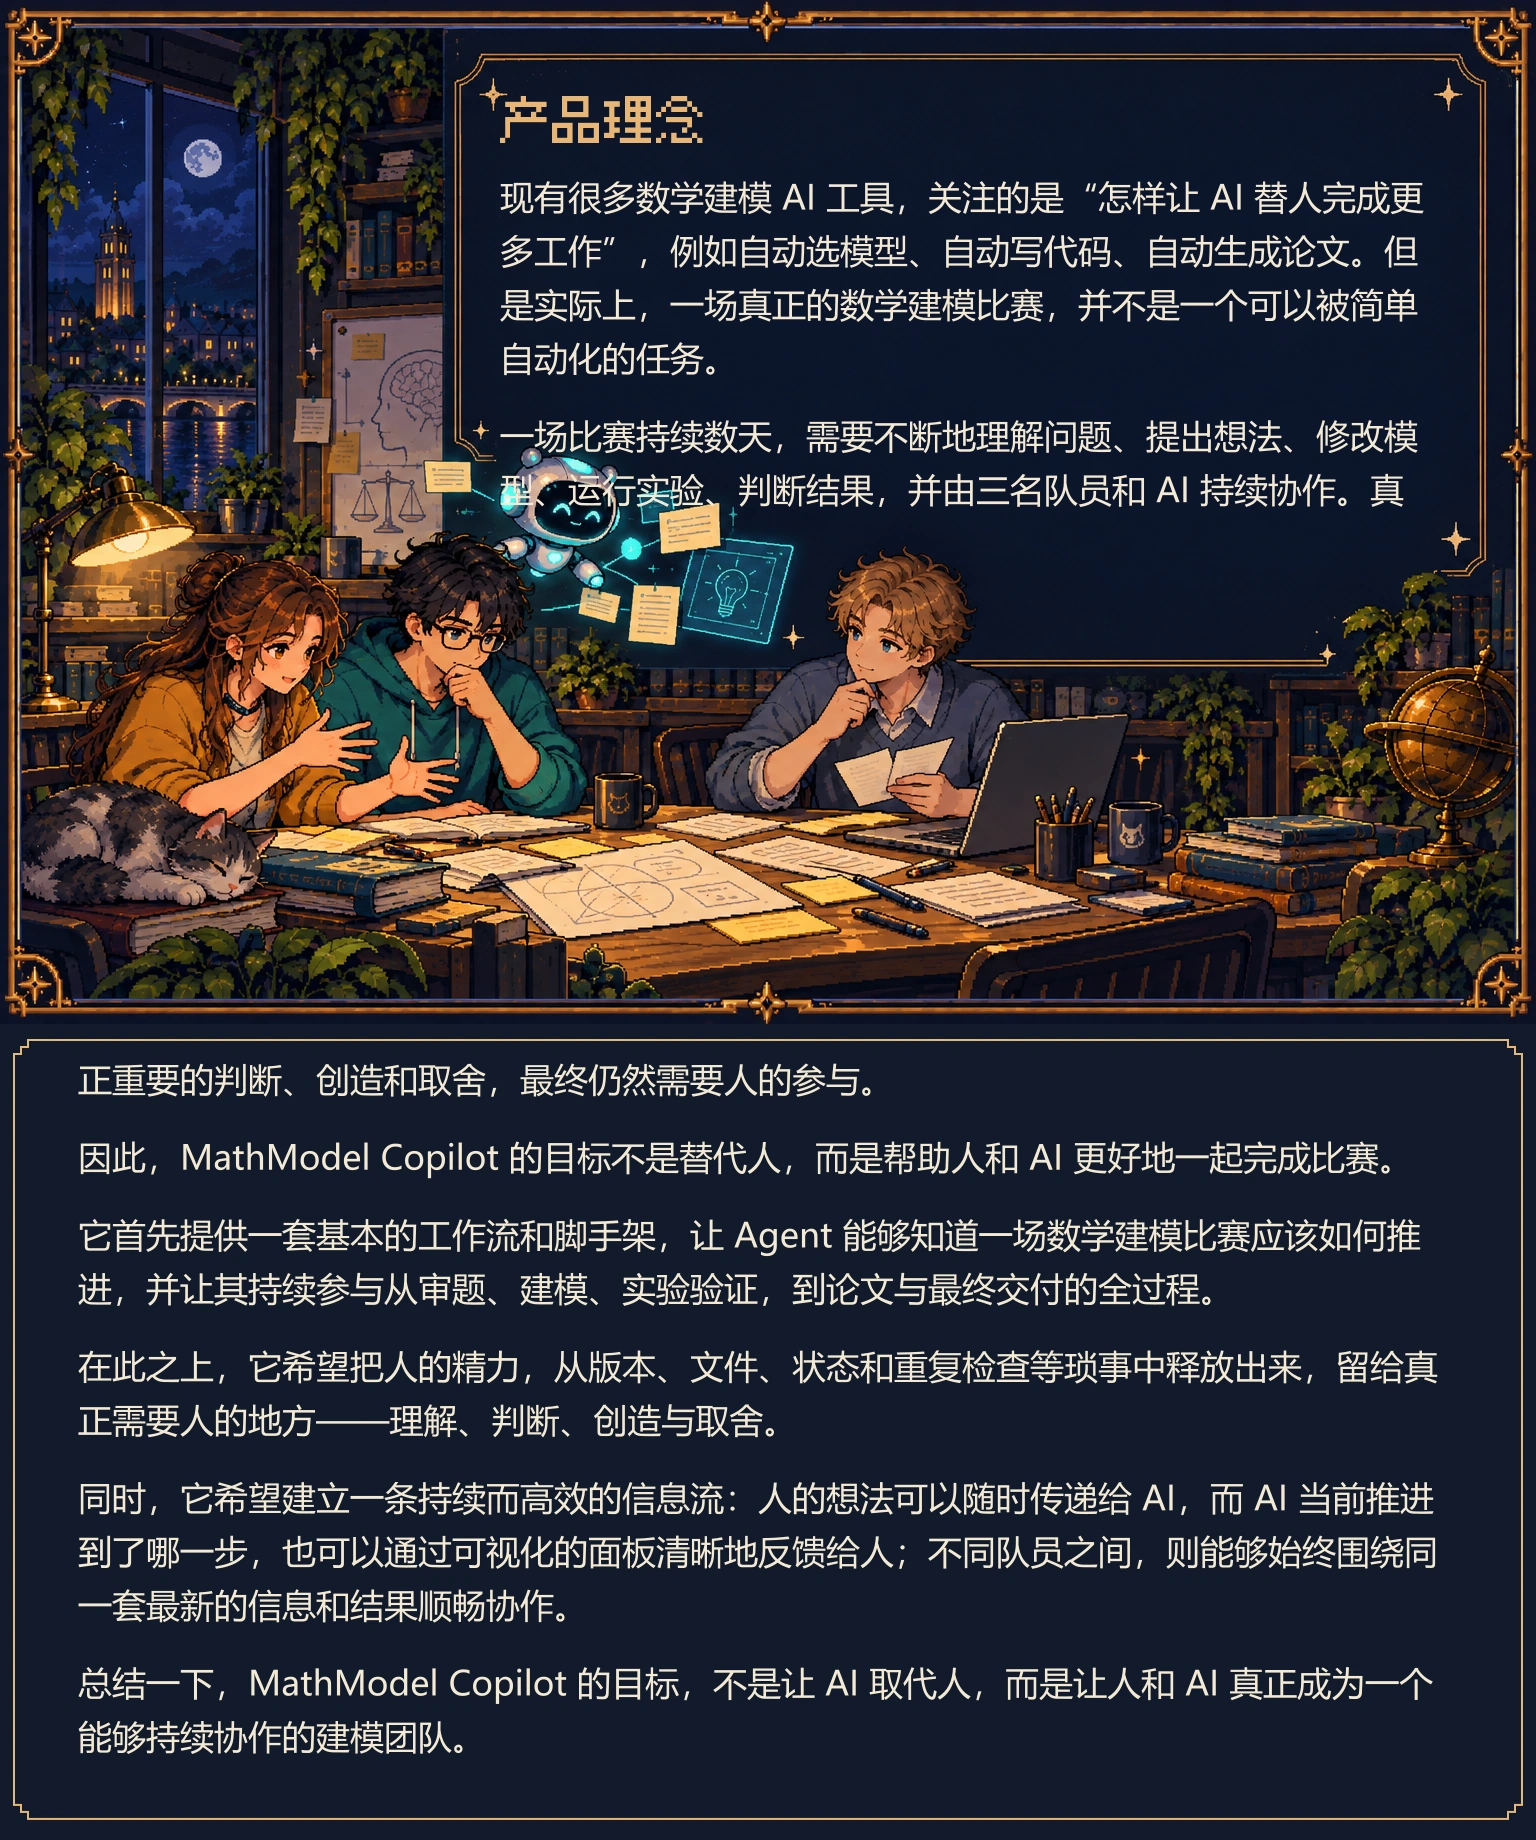
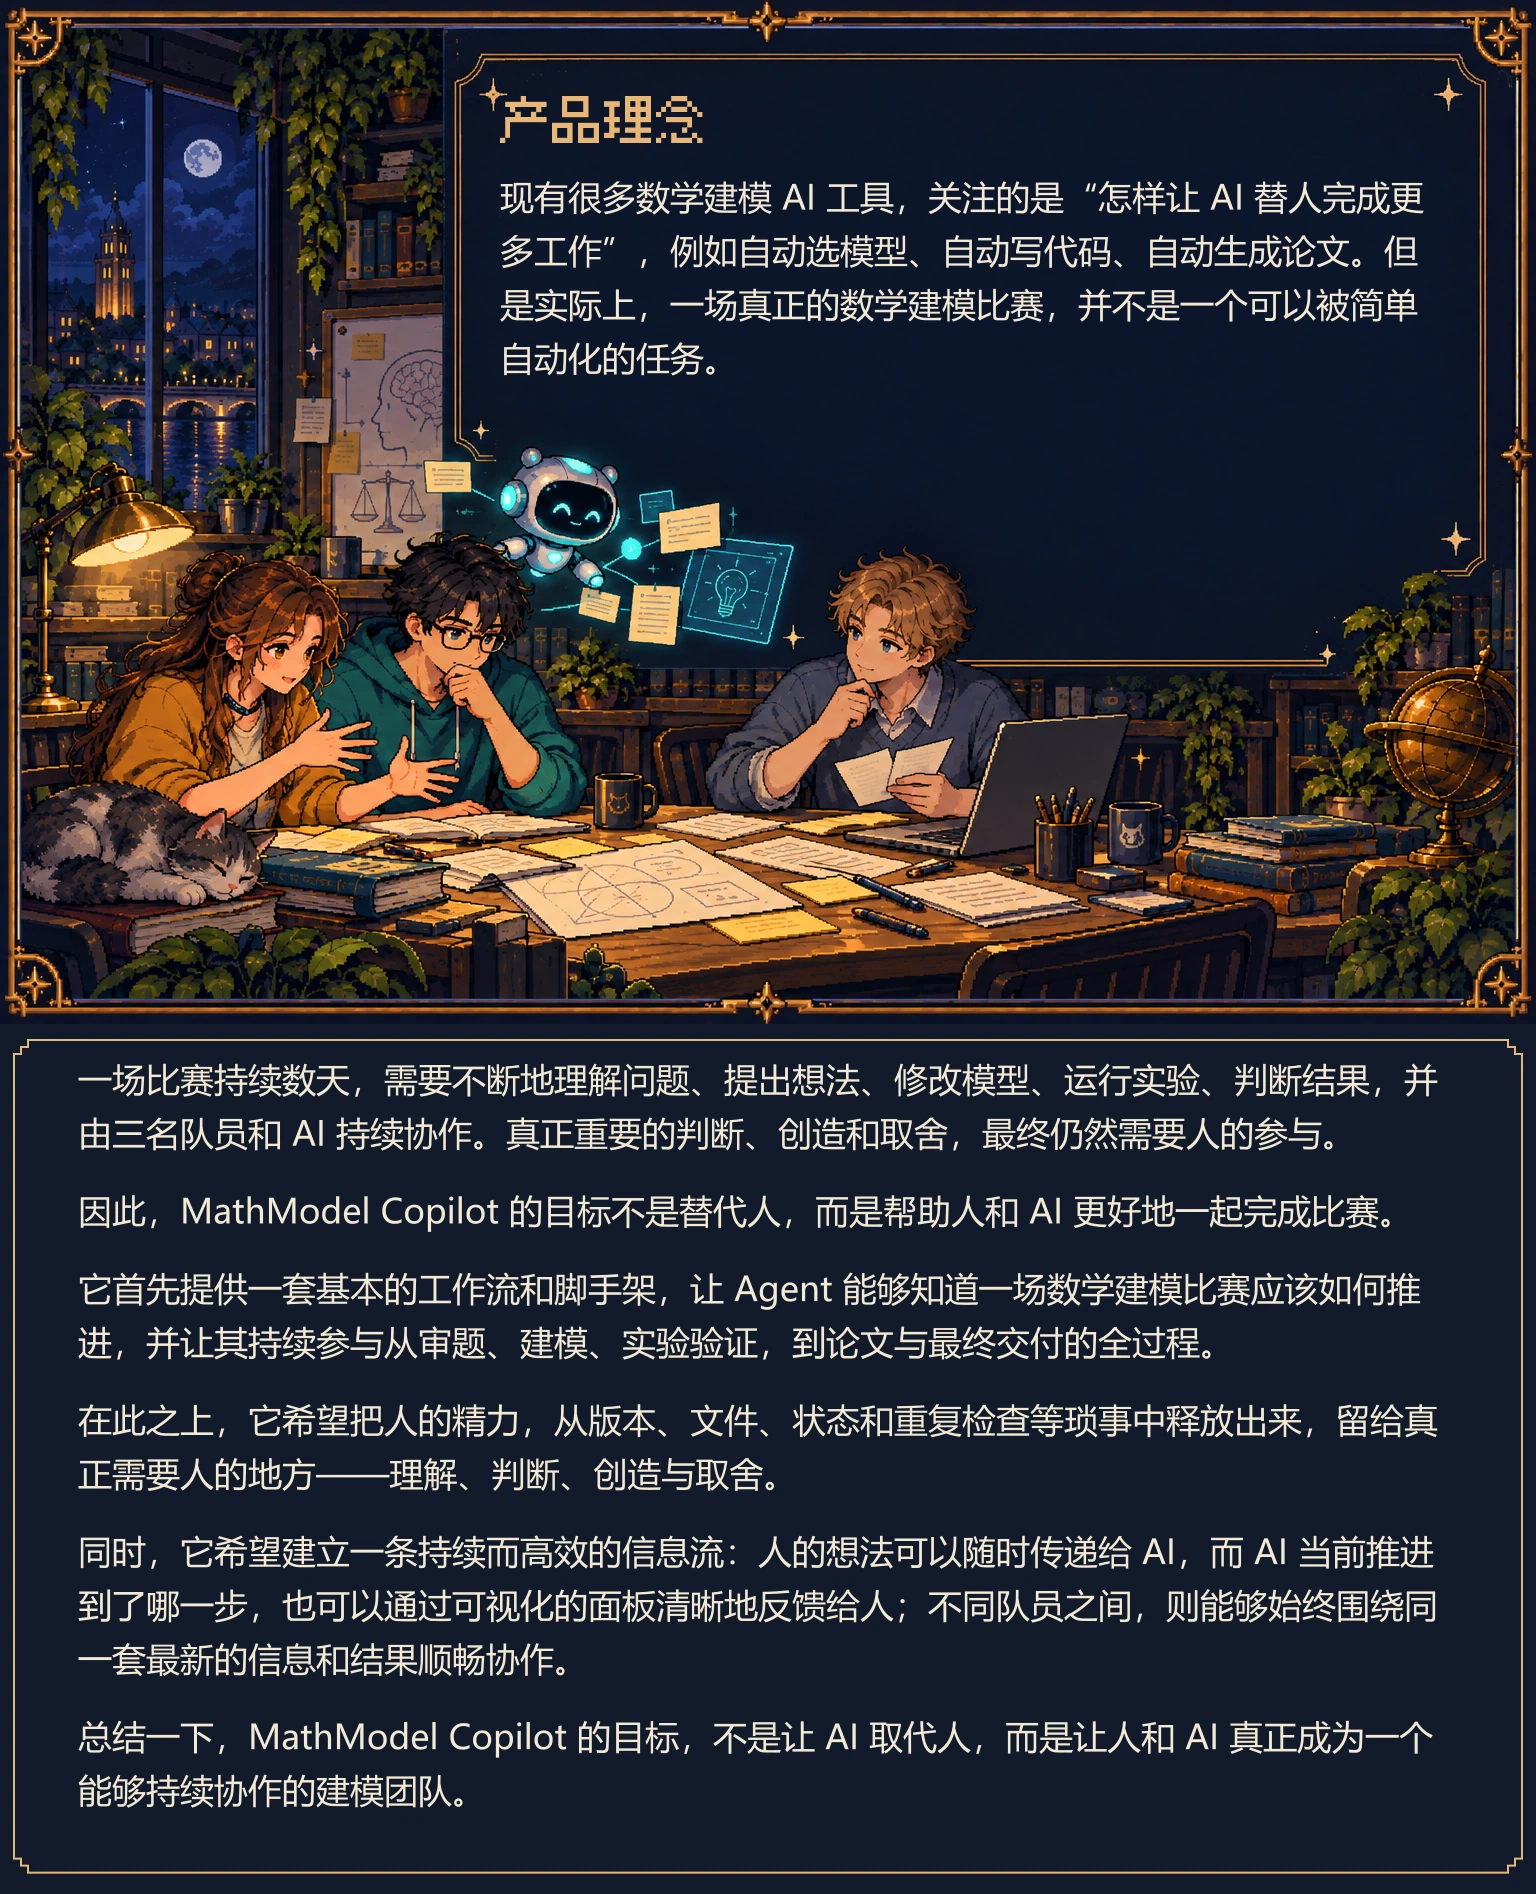
Design README with pixel study illustrations while preserving original copy

diff --git a/README.md b/README.md
@@ -1,64 +1,64 @@
 <p align="center"><a href="https://github.com/Odyphus/MathModel-Copilot/raw/refs/heads/main/downloads/MathModel-Copilot-latest.zip"><img src="assets/pixel-readme/download.webp" alt="直接下载压缩包" width="240"></a></p>
 
-[产品理念](#产品理念) · [功能介绍](#mathmodel-copilot-能帮你做什么) · [反馈与参与](#反馈与参与)
+[产品理念](#user-content-产品理念) · [功能介绍](#user-content-mathmodel-copilot-能帮你做什么) · [反馈与参与](#user-content-反馈与参与)
 
-<a id="mathmodel-copilot" name="mathmodel-copilot"></a>
+<a name="mathmodel-copilot"></a>
 
 <picture>
   <source media="(max-width: 640px)" srcset="assets/pixel-readme/00-mobile.webp">
   <img src="assets/pixel-readme/00-desktop.webp" alt="MathModel Copilot" width="100%">
 </picture>
 
-<a id="下载后发给-ai-安装就能开始" name="下载后发给-ai-安装就能开始"></a>
+<a name="下载后发给-ai-安装就能开始"></a>
 
 <picture>
   <source media="(max-width: 640px)" srcset="assets/pixel-readme/01-mobile.webp">
   <img src="assets/pixel-readme/01-desktop.webp" alt="下载后，发给 AI 安装就能开始" width="100%">
 </picture>
 
-<a id="产品理念" name="产品理念"></a>
+<a name="产品理念"></a>
 
 <picture>
   <source media="(max-width: 640px)" srcset="assets/pixel-readme/02-mobile.webp">
   <img src="assets/pixel-readme/02-desktop.webp" alt="产品理念" width="100%">
 </picture>
 
-<a id="mathmodel-copilot-能帮你做什么" name="mathmodel-copilot-能帮你做什么"></a>
+<a name="mathmodel-copilot-能帮你做什么"></a>
 
 <picture>
   <source media="(max-width: 640px)" srcset="assets/pixel-readme/03-mobile.webp">
   <img src="assets/pixel-readme/03-desktop.webp" alt="MathModel Copilot 能帮你做什么？" width="100%">
 </picture>
 
-<a id="①-从审题到交付让-ai-持续参与整场比赛" name="①-从审题到交付让-ai-持续参与整场比赛"></a>
+<a name="①-从审题到交付让-ai-持续参与整场比赛"></a>
 
 <picture>
   <source media="(max-width: 640px)" srcset="assets/pixel-readme/04-mobile.webp">
   <img src="assets/pixel-readme/04-desktop.webp" alt="① 从审题到交付，让 AI 持续参与整场比赛" width="100%">
 </picture>
 
-<a id="②-把思路讲透让人有依据地判断与选择" name="②-把思路讲透让人有依据地判断与选择"></a>
+<a name="②-把思路讲透让人有依据地判断与选择"></a>
 
 <picture>
   <source media="(max-width: 640px)" srcset="assets/pixel-readme/05-mobile.webp">
   <img src="assets/pixel-readme/05-desktop.webp" alt="② 把思路讲透，让人有依据地判断与选择" width="100%">
 </picture>
 
-<a id="③-把版本状态和重复检查交给系统" name="③-把版本状态和重复检查交给系统"></a>
+<a name="③-把版本状态和重复检查交给系统"></a>
 
 <picture>
   <source media="(max-width: 640px)" srcset="assets/pixel-readme/06-mobile.webp">
   <img src="assets/pixel-readme/06-desktop.webp" alt="③ 把版本、状态和重复检查交给系统" width="100%">
 </picture>
 
-<a id="④-真实计算独立核验让结果有据可查" name="④-真实计算独立核验让结果有据可查"></a>
+<a name="④-真实计算独立核验让结果有据可查"></a>
 
 <picture>
   <source media="(max-width: 640px)" srcset="assets/pixel-readme/07-mobile.webp">
   <img src="assets/pixel-readme/07-desktop.webp" alt="④ 真实计算、独立核验，让结果有据可查" width="100%">
 </picture>
 
-<a id="⑤-通过共享项目资料让人ai-和队员协作起来" name="⑤-通过共享项目资料让人ai-和队员协作起来"></a>
+<a name="⑤-通过共享项目资料让人ai-和队员协作起来"></a>
 
 <picture>
   <source media="(max-width: 640px)" srcset="assets/pixel-readme/08-mobile.webp">
@@ -67,49 +67,49 @@
 
 [GitHub 协作说明](docs/GIT_COLLABORATION.md)
 
-<a id="⑥-建模工作台直观看到项目进展与-ai-反馈" name="⑥-建模工作台直观看到项目进展与-ai-反馈"></a>
+<a name="⑥-建模工作台直观看到项目进展与-ai-反馈"></a>
 
 <picture>
   <source media="(max-width: 640px)" srcset="assets/pixel-readme/09-mobile.webp">
   <img src="assets/pixel-readme/09-desktop.webp" alt="⑥ 建模工作台：直观看到项目进展与 AI 反馈" width="100%">
 </picture>
 
-<a id="⑦-辅助论文写作把思路和结果讲清楚" name="⑦-辅助论文写作把思路和结果讲清楚"></a>
+<a name="⑦-辅助论文写作把思路和结果讲清楚"></a>
 
 <picture>
   <source media="(max-width: 640px)" srcset="assets/pixel-readme/10-mobile.webp">
   <img src="assets/pixel-readme/10-desktop.webp" alt="⑦ 辅助论文写作，把思路和结果讲清楚" width="100%">
 </picture>
 
-<a id="⑧-提交前核对材料减少遗漏和版本混用" name="⑧-提交前核对材料减少遗漏和版本混用"></a>
+<a name="⑧-提交前核对材料减少遗漏和版本混用"></a>
 
 <picture>
   <source media="(max-width: 640px)" srcset="assets/pixel-readme/11-mobile.webp">
   <img src="assets/pixel-readme/11-desktop.webp" alt="⑧ 提交前核对材料，减少遗漏和版本混用" width="100%">
 </picture>
 
-<a id="⑨-教学模式带你把这个-skill-用起来" name="⑨-教学模式带你把这个-skill-用起来"></a>
+<a name="⑨-教学模式带你把这个-skill-用起来"></a>
 
 <picture>
   <source media="(max-width: 640px)" srcset="assets/pixel-readme/12-mobile.webp">
   <img src="assets/pixel-readme/12-desktop.webp" alt="⑨ 教学模式，带你把这个 Skill 用起来" width="100%">
 </picture>
 
-<a id="⑩-留下经验和偏好让下一次用得更顺手" name="⑩-留下经验和偏好让下一次用得更顺手"></a>
+<a name="⑩-留下经验和偏好让下一次用得更顺手"></a>
 
 <picture>
   <source media="(max-width: 640px)" srcset="assets/pixel-readme/13-mobile.webp">
   <img src="assets/pixel-readme/13-desktop.webp" alt="⑩ 留下经验和偏好，让下一次用得更顺手" width="100%">
 </picture>
 
-<a id="⑪-ai-帮你写反馈并提交-github-issue" name="⑪-ai-帮你写反馈并提交-github-issue"></a>
+<a name="⑪-ai-帮你写反馈并提交-github-issue"></a>
 
 <picture>
   <source media="(max-width: 640px)" srcset="assets/pixel-readme/14-mobile.webp">
   <img src="assets/pixel-readme/14-desktop.webp" alt="⑪ AI 帮你写反馈，并提交 GitHub Issue" width="100%">
 </picture>
 
-<a id="关于当前版本" name="关于当前版本"></a>
+<a name="关于当前版本"></a>
 
 <picture>
   <source media="(max-width: 640px)" srcset="assets/pixel-readme/15-mobile.webp">
@@ -118,14 +118,14 @@
 
 [本轮验收记录](docs/ACCEPTANCE_V032.md)
 
-<a id="反馈与参与" name="反馈与参与"></a>
+<a name="反馈与参与"></a>
 
 <picture>
   <source media="(max-width: 640px)" srcset="assets/pixel-readme/16-mobile.webp">
   <img src="assets/pixel-readme/16-desktop.webp" alt="反馈与参与" width="100%">
 </picture>
 
-<a id="使用文档" name="使用文档"></a>
+<a name="使用文档"></a>
 
 <picture>
   <source media="(max-width: 640px)" srcset="assets/pixel-readme/17-mobile.webp">
@@ -134,7 +134,7 @@
 
 [安装指南](https://github.com/Odyphus/MathModel-Copilot/blob/main/docs/INSTALL.md) · [使用说明](https://github.com/Odyphus/MathModel-Copilot/blob/main/docs/EXPERIENCE_V03.md) · [GitHub 协作说明](https://github.com/Odyphus/MathModel-Copilot/blob/main/docs/GIT_COLLABORATION.md) · [工作台交互说明](https://github.com/Odyphus/MathModel-Copilot/blob/main/docs/LOCAL_INTERACTION.md) · [使用反馈说明](https://github.com/Odyphus/MathModel-Copilot/blob/main/docs/USAGE_FEEDBACK.md) · [产品术语](https://github.com/Odyphus/MathModel-Copilot/blob/main/docs/PRODUCT_LANGUAGE.md) · [贡献指南](https://github.com/Odyphus/MathModel-Copilot/blob/main/CONTRIBUTING.md) · [变更记录](https://github.com/Odyphus/MathModel-Copilot/blob/main/CHANGELOG.md) · [安全问题反馈方式](https://github.com/Odyphus/MathModel-Copilot/blob/main/SECURITY.md)
 
-<a id="项目来源与贡献" name="项目来源与贡献"></a>
+<a name="项目来源与贡献"></a>
 
 <picture>
   <source media="(max-width: 640px)" srcset="assets/pixel-readme/18-mobile.webp">
